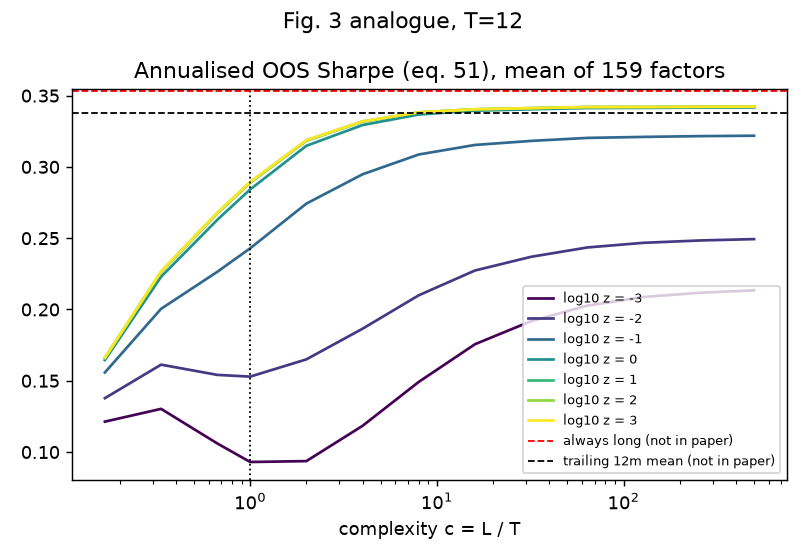
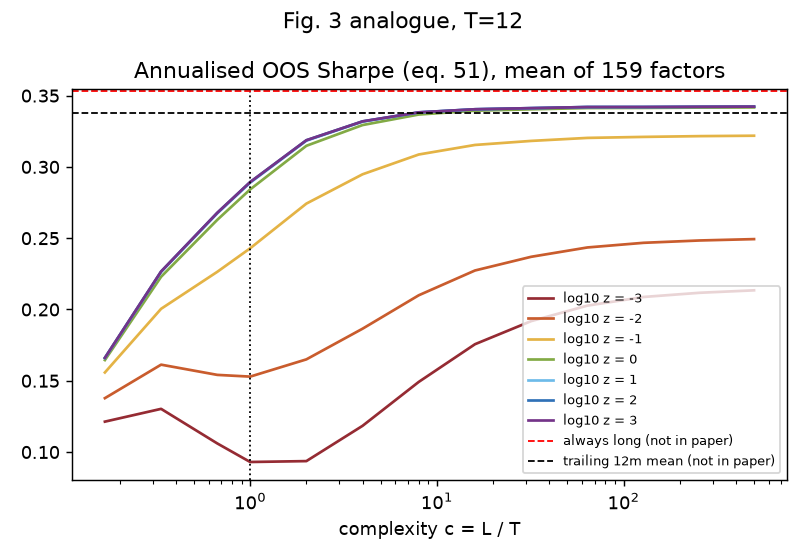
Recolour Fig. 1-3 analogues with the paper's line colours
Replot from the saved .npz results (no re-run); Fig. 1 title now says
Welch-Goyal for the _wg runs.

diff --git a/experiments/curves.py b/experiments/curves.py
@@ -46,9 +46,13 @@ def load_all(end: str = "2021-12") -> dict[str, pd.Series]:
     return out
 
 
+# Line colours of the paper's figures, one per log10 z = -3 ... 3 (sampled from its legend).
+PAPER_COLORS = ["#952b33", "#c95c2d", "#e4b345", "#82aa45", "#6dbbe9", "#3071b7", "#743489"]
+
+
 def _lines(ax, c, y, ylab=None):
     for j, z in enumerate(Z_GRID):
-        ax.plot(c, y[:, j], color=plt.cm.viridis(j / (len(Z_GRID) - 1)), label=f"log10 z = {np.log10(z):g}")
+        ax.plot(c, y[:, j], color=PAPER_COLORS[j], label=f"log10 z = {np.log10(z):g}")
     ax.set_xscale("log"); ax.axvline(1, color="k", ls=":", lw=1); ax.set_xlabel("complexity c = L / T")
     if ylab:
         ax.set_title(ylab)
@@ -61,7 +65,7 @@ def make_figures(d: dict, tag: str, T: int):
     fig, ax = plt.subplots(1, 2, figsize=(11, 4.2))
     _lines(ax[0], c, mean("R2"), f"OOS $R^2$ (eq. 47), mean of {n} factors"); ax[0].set_ylim(-1, 0.1)
     _lines(ax[1], c, np.sqrt(mean("B2")), "$\\|\\hat\\beta\\|$ (sqrt of eq. 48), mean of factors"); ax[1].set_ylim(0, 10)
-    ax[0].legend(fontsize=7); fig.suptitle(f"Fig. 1 analogue, momentum signals, T={T}"); fig.tight_layout()
+    ax[0].legend(fontsize=7); fig.suptitle(f"Fig. 1 analogue, {'Welch-Goyal' if '_wg' in tag else 'momentum'} signals, T={T}"); fig.tight_layout()
     fig.savefig(out / f"fig1{tag}.png", dpi=130); plt.close(fig)
 
     fig, ax = plt.subplots(1, 2, figsize=(11, 4.2))
